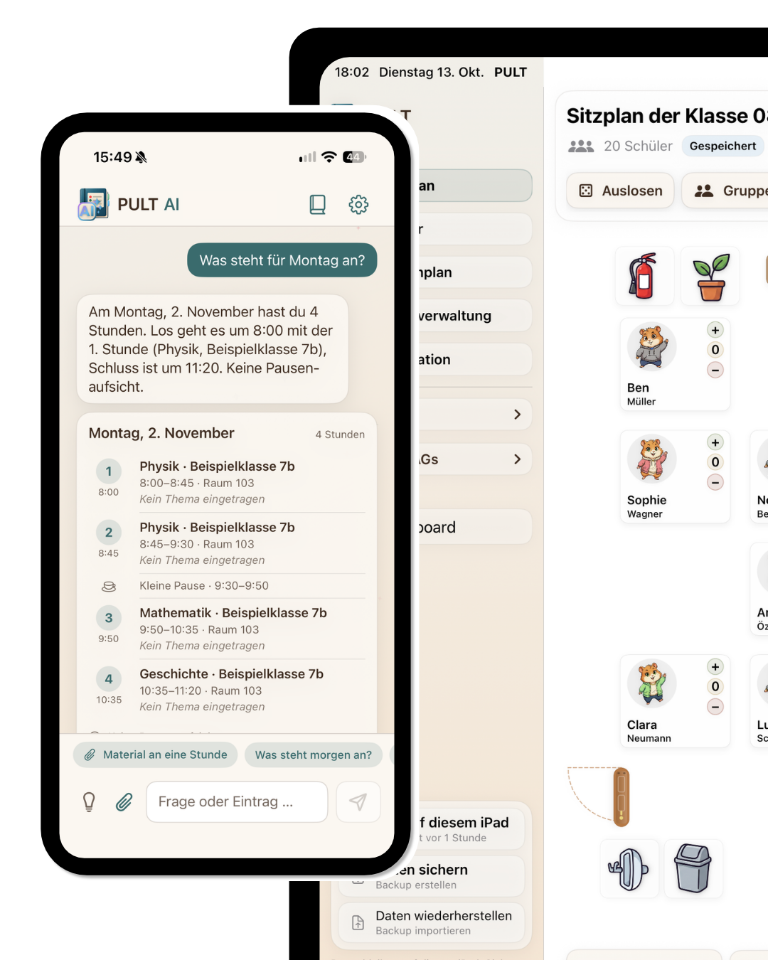
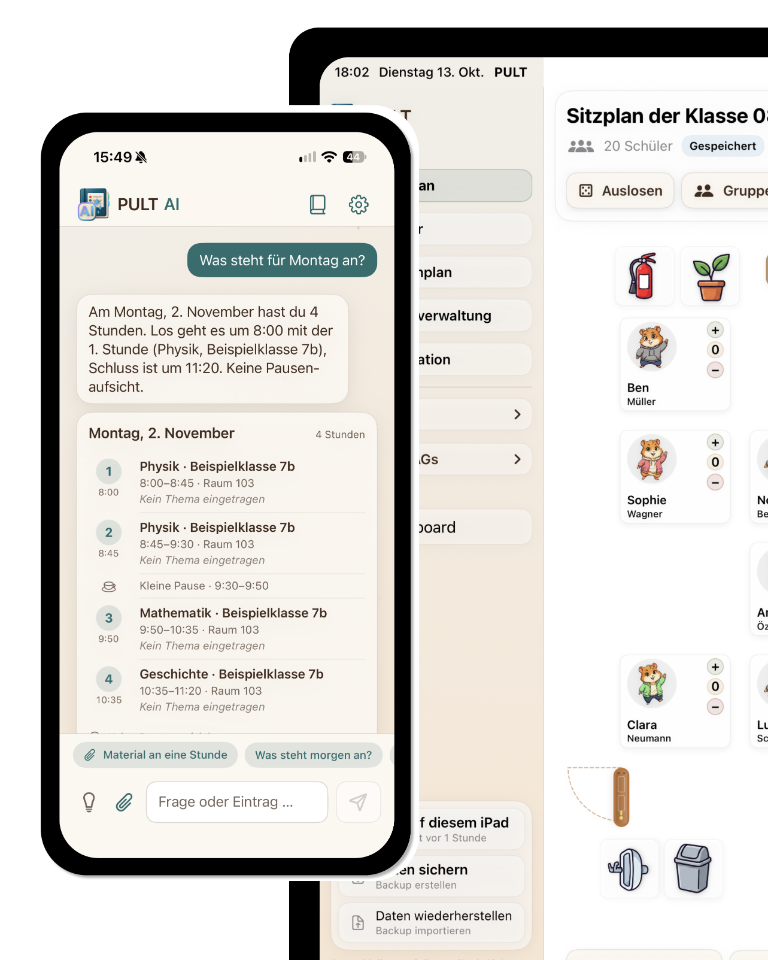
Replace PULT AI product screenshots

diff --git a/styles.css b/styles.css
@@ -321,6 +321,8 @@ h1, h2, h3 { letter-spacing: -.045em; }
 .feature-visual img { width: 100%; height: auto; object-fit: initial; }
 .feature-row { grid-template-columns: minmax(0, 7fr) minmax(0, 5fr); gap: clamp(32px, 5vw, 64px); }
 .feature-row-reverse { grid-template-columns: minmax(0, 5fr) minmax(0, 7fr); }
+.pult-ai-page .hero-visual .screenshot-trigger,
+.pult-ai-page .feature-visual .screenshot-trigger { width: 70%; margin-inline: auto; }
 .feature-row#berichte { grid-template-columns: minmax(0, 1fr); padding: clamp(24px, 4vw, 44px); border-block: 1px solid var(--line); background: var(--surface-warm); }
 .feature-row#berichte .feature-copy { max-width: 850px; }
 .feature-copy h2, .feature-copy h3 { font-size: clamp(30px, 3.1vw, 40px); }

diff --git a/pult-ai/index.html b/pult-ai/index.html
@@ -23,7 +23,7 @@
     <link rel="stylesheet" href="/styles.css?v=pult-ai-release-20261031">
     <script type="module" src="/script.js?v=pult-ai-release-20261031"></script>
   </head>
-  <body>
+  <body class="pult-ai-page">
     <a class="skip-link" href="#inhalt">Zum Inhalt springen</a>
     <header class="site-header">
       <div class="container header-inner">
